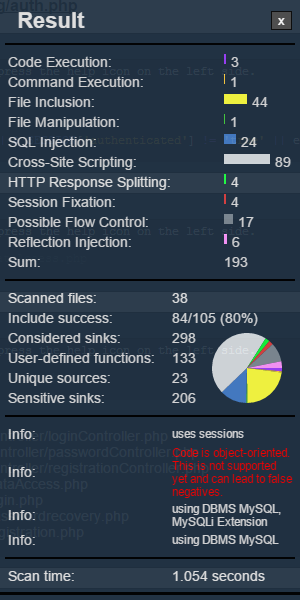
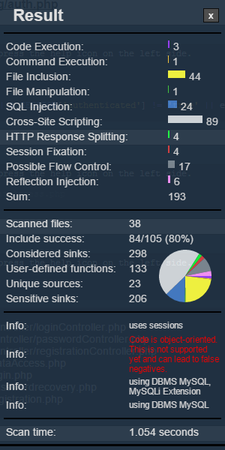
resized tool images and minor correction

diff --git a/wbtesting-report/chapters/tests/category_2/test_2.tex b/wbtesting-report/chapters/tests/category_2/test_2.tex
@@ -31,7 +31,7 @@
         Therefore the Likelihood of an atack is increased.
     \\
     \textbf{Impact} &
-       If someone registers as a other person he can possibly use his account to commit crimes and the actions could not be traced back to him or would be blamed on the persion that the account was registered on.
+       If someone registers as another person he can possibly use his account to commit crimes and the actions could not be traced back to him or would be blamed on the persion that the account was registered on.
     \\
     \textbf{Recommen\-dations} &
         Send confirmation emails and add more form fields for Registration to identify the Customer
@@ -87,7 +87,7 @@
         This fact increases the likelihood of an atack.
     \\
     \textbf{Impact} &
-        If someone registers as a other person he can possibly use his account to commit crimes and the actions could not be traced back to him or would be blamed on the persion that the account was registered on.
+        If someone registers as another person he can possibly use his account to commit crimes and the actions could not be traced back to him or would be blamed on the persion that the account was registered on.
     \\
     \textbf{Recommen\-dations} &
         Send confirmation emails and verify the Address fields.
@@ -108,5 +108,5 @@
 \end{longtable}
 
 \subsubsection{Comparison}
-In comparison to Online Banking SecureBank asks more informations on user registration but as the informations are not properly verified by the system this advantage is only superficial.
+In comparison to Online Banking, SecureBank asks more informations on user registration but as the informations are not properly verified by the system this advantage is only superficial.
 \clearpage

diff --git a/wbtesting-report/chapters/tools/tool_alltangentests.tex b/wbtesting-report/chapters/tools/tool_alltangentests.tex
@@ -9,7 +9,7 @@ Though there is check for duplicate TAN on the PHP side, if frequency of duplica
 
 \subsubsection{SecureBank}
 The test reported 1 failure in the Java code of SecureBank and passed 7 tests successfully. See \ref{fig:junit_overview_secure_bank} for the test report.
-The failed test \code{shouldNotGenerateDuplicateTan} revealed that the probability of duplicate TANs generated is high. However, this is due to the TAN generation logic that generates the same TAN upto 100 seconds. This is done to achieve expiration of the TAN and make it unusable after 100 seconds. Also, this prevents TANs generated at extremely short intervals. Hence, the test failure can be considered as a false positive.
+The failed test \code{shouldNotGenerateDuplicateTan} revealed that the probability of duplicate TANs generated is high. However, this is due to the TAN generation logic that generates the same TAN upto 100 seconds. This is done to achieve expiration of the TAN and make it unusable after 100 seconds. Also, this prevents TANs generated at extremely short intervals. Also, after 100 seconds, the probability of duplicate TANs is found to be low. Hence, the test failure can be considered as a false positive.
 
 \begin{figure}[ht]
 	\centering

diff --git a/wbtesting-report/chapters/tools/tool_rips.tex b/wbtesting-report/chapters/tools/tool_rips.tex
@@ -14,7 +14,7 @@ Online Banking showed 193 issues. Refer \ref{fig:rips_overview}. The tool report
 All the above issues were found to be false positives which was also confirmed by black box testing and manual code inspection.
 
 \subsubsection{SecureBank}
-SecureBank showed 8 issues. Refer \ref{fig:rips_overview_secure_bank}. The tool reported the following issues:
+SecureBank showed 331 issues. This is reasonable owing to the number of files. Refer \ref{fig:rips_overview_secure_bank}. The tool reported the following issues:
 \begin{itemize}
     \item Command Execution - Refer \ref{fig:rips_command_execution_secure_bank}.
     \item Code Execution - Refer \ref{fig:rips_code_execution_secure_bank}.
